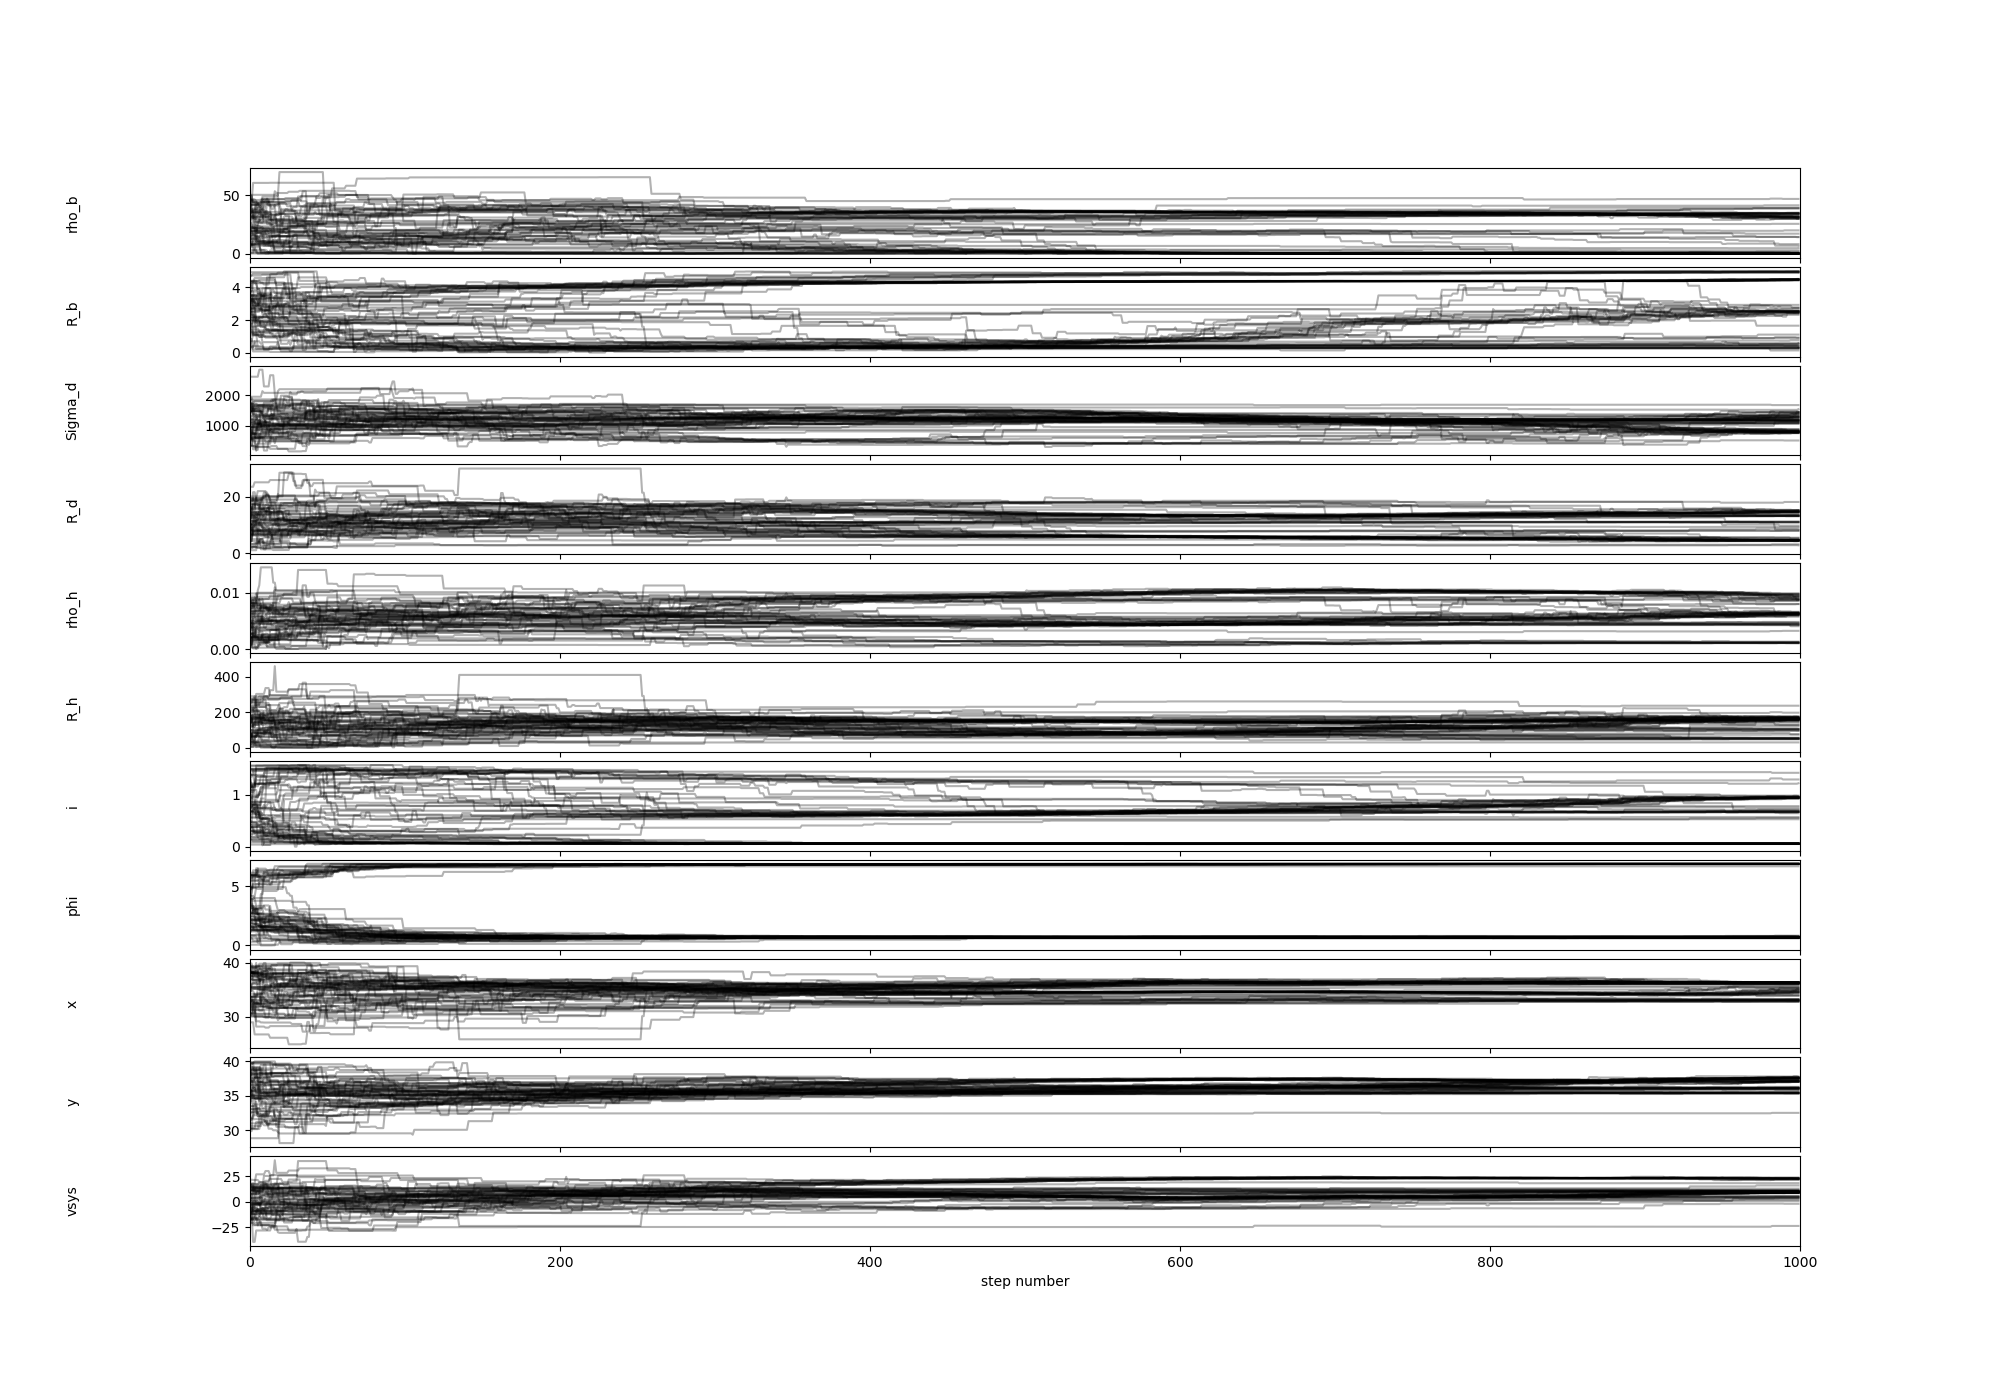
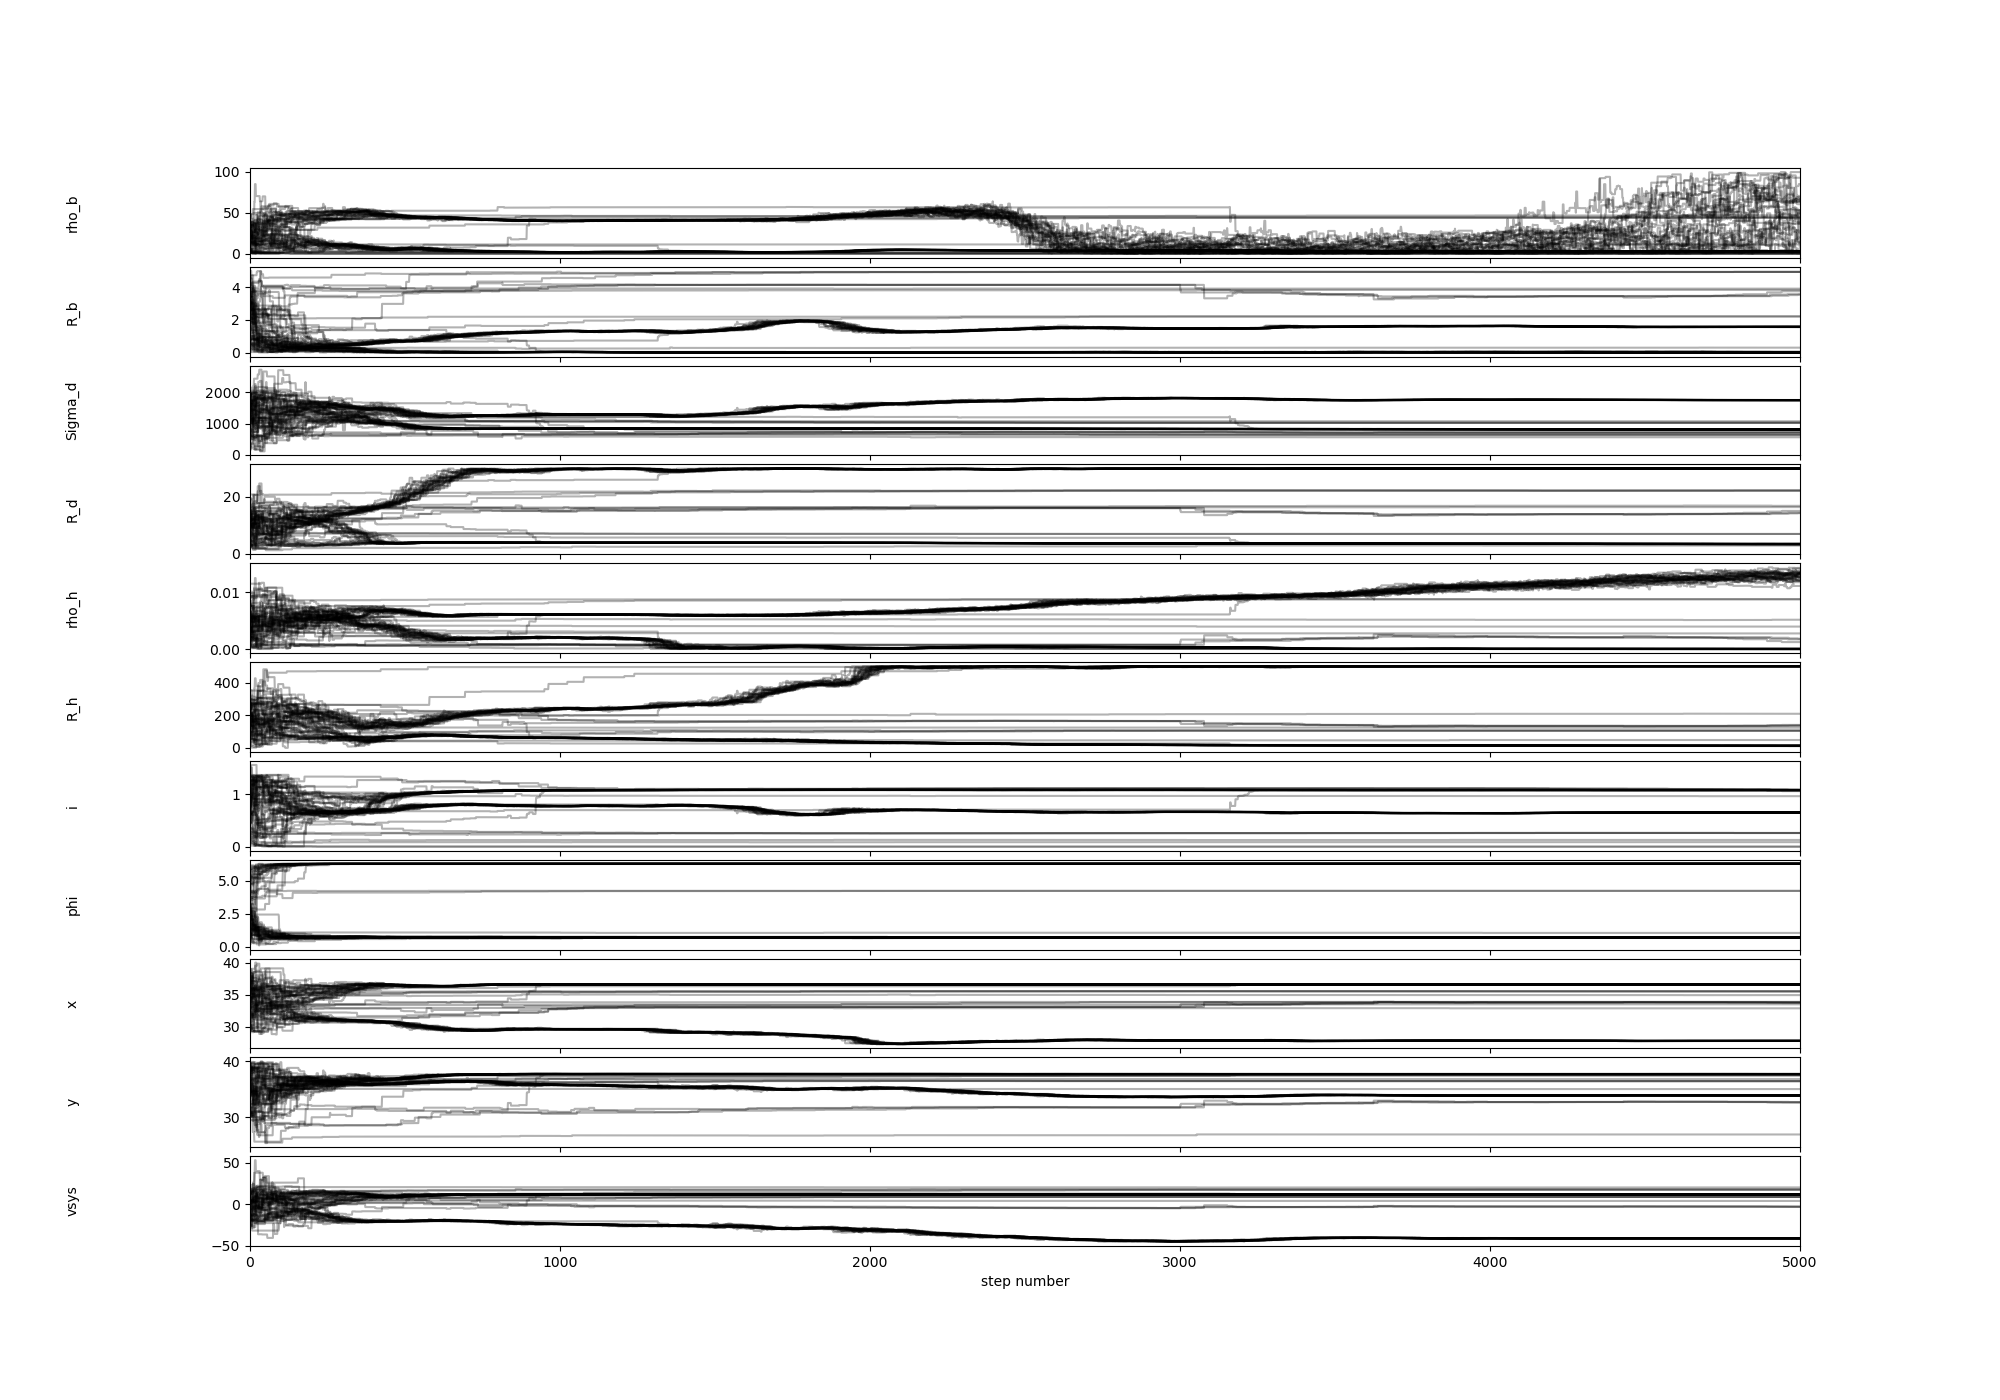
updated loglikelihood functions

Changed region(s): [[0.093, 0.1229, 0.899, 0.8907]]

diff --git a/2D_RC/main/RC_2D_Fit_Functions.py b/2D_RC/main/RC_2D_Fit_Functions.py
@@ -181,7 +181,7 @@ def getTidal(gal_ID):
         if galaxy['NAME'] == 'manga-'+gal_ID:
             return galaxy['TIDAL']
 
-def Galaxy_Fitting_iso(params, scale, shape, vmap, ivar):
+def Galaxy_Fitting_iso(params, scale, shape, vmap, ivar, mask):
     '''
 
     :param params:
@@ -201,7 +201,7 @@ def Galaxy_Fitting_iso(params, scale, shape, vmap, ivar):
                   [0.1, 30],  # Disk radius [kpc]
                   [0.000001, 0.1],  # Halo density [Msun/pc^2]
                   [0.1, 1000],  # Halo radius [kpc]
-                  [0.1, 0.5*np.pi],  # Inclination angle
+                  [0.1, 0.436*np.pi],  # Inclination angle
                   [0, 2.2 * np.pi],  # Phase angle
                   [x_guess-10, x_guess+10],  # center_x
                   [y_guess-10, y_guess+10], # center_y
@@ -211,9 +211,9 @@ def Galaxy_Fitting_iso(params, scale, shape, vmap, ivar):
 
     ig_iso = [20, 1,1000, 4, 0.006, 25, incl, ph, x_guess, y_guess, vsys]
 
-    bestfit_iso = minimize(nloglikelihood_iso,
+    bestfit_iso = minimize(nloglikelihood_iso_flat,
                            ig_iso,
-                           args=(scale, shape, vmap, ivar),
+                           args=(scale, shape, vmap.compressed(), ivar.compressed(),mask),
                            method='Powell',
                            bounds=bounds_iso)
     print('---------------------------------------------------')
@@ -261,7 +261,7 @@ def Galaxy_Fitting_iso_nb(params, scale, shape, vmap, ivar):
     return bestfit_iso.x
 '''
 
-def Galaxy_Fitting_NFW(params, scale, shape, vmap, ivar):
+def Galaxy_Fitting_NFW(params, scale, shape, vmap, ivar, mask):
     '''
 
     :param params:
@@ -281,7 +281,7 @@ def Galaxy_Fitting_NFW(params, scale, shape, vmap, ivar):
                   [0.1, 30],  # Disk radius [kpc]
                   [0.000001, 0.1],  # Halo density [Msun/pc^2]
                   [0.1, 1000],  # Halo radius [kpc]
-                  [0.1, 0.5*np.pi],  # Inclination angle
+                  [0.1, 0.436*np.pi],  # Inclination angle
                   [0, 2.2 * np.pi],  # Phase angle
                   [x_guess-10, x_guess+10],  # center_x
                   [y_guess-10, y_guess+10], # center_y
@@ -291,9 +291,9 @@ def Galaxy_Fitting_NFW(params, scale, shape, vmap, ivar):
 
     ig_NFW = [20, 1, 1000, 4, 0.006, 25, incl, ph, x_guess, y_guess, vsys]
 
-    bestfit_NFW = minimize(nloglikelihood_NFW,
+    bestfit_NFW = minimize(nloglikelihood_NFW_flat,
                            ig_NFW, 
-                           args=(scale, shape, vmap, ivar),
+                           args=(scale, shape, vmap.compressed(), ivar.compressed(), mask),
                            method='Powell', 
                            bounds=bounds_NFW)
     print('---------------------------------------------------')
@@ -341,7 +341,7 @@ def Galaxy_Fitting_NFW_nb(params, scale, shape, vmap, ivar):
     return bestfit_NFW.x
 '''
 
-def Galaxy_Fitting_bur(params, scale, shape, vmap, ivar):
+def Galaxy_Fitting_bur(params, scale, shape, vmap, ivar, mask):
     '''
 
     :param params:
@@ -361,7 +361,7 @@ def Galaxy_Fitting_bur(params, scale, shape, vmap, ivar):
                   [0.1, 30],  # Disk radius [kpc]
                   [0.000001, 0.1],  # Halo density [Msun/pc^2]
                   [0.1, 1000],  # Halo radius [kpc]
-                  [0.1, 0.5*np.pi],  # Inclination angle
+                  [0.1, 0.436*np.pi],  # Inclination angle
                   [0, 2.2 * np.pi],  # Phase angle
                   [x_guess-10, x_guess+10],  # center_x
                   [y_guess-10, y_guess+10], # center_y
@@ -373,9 +373,9 @@ def Galaxy_Fitting_bur(params, scale, shape, vmap, ivar):
 
     ig_bur = [20, 1, 1000, 4, 0.006, 25, incl, ph, x_guess, y_guess, vsys]
 
-    bestfit_bur = minimize(nloglikelihood_bur,
+    bestfit_bur = minimize(nloglikelihood_bur_flat,
                            ig_bur, 
-                           args=(scale, shape, vmap, ivar),
+                           args=(scale, shape, vmap.compressed(), ivar.compressed(), mask),
                            method='Powell', 
                            bounds=bounds_bur)
     print('---------------------------------------------------')

diff --git a/2D_RC/main/vel_map_RC_Decomp_pipeline_exp_bulge.py b/2D_RC/main/vel_map_RC_Decomp_pipeline_exp_bulge.py
@@ -42,6 +42,7 @@ from os import path
 c = 3E5 # km * s ^1
 h = 1 # reduced hubble constant
 H_0 =  100 * h # km * s^-1 * Mpc^-1
+q0 = 0.2 # minimum inclination value
 ################################################################################
 
 ################################################################################
@@ -115,7 +116,12 @@ for i in range(len(galaxy_ID)):
     distance = (velocity / H_0) * 1E3 #kpc
     scale = 0.5 * (distance) / 206265
 
-    incl = np.arccos(rat[j])
+    #incl = np.arccos(rat[j])
+    cosi2 = (rat[j]**2 - q0**2)/(1-q0**2)
+    if cosi2 < 0:
+        cosi2 = 0
+
+    incl = np.arccos(np.sqrt(cosi2))
 
     ph = phi[j] * np.pi / 180
 
@@ -141,6 +147,7 @@ for i in range(len(galaxy_ID)):
             Ha_vel_mask = Ha_vel_mask + (SN_map < 5)
 
             vmasked = ma.array(Ha_vel, mask = Ha_vel_mask)
+            ivar_masked = ma.array(Ha_vel_ivar, mask = Ha_vel_mask)
 
             # NFW
 
@@ -209,19 +216,22 @@ for i in range(len(galaxy_ID)):
                                                     scale,
                                                     gshape,
                                                     vmasked,
-                                                    Ha_vel_ivar)
+                                                    ivar_masked,
+                                                    Ha_vel_mask)
 
                 NFW_fit = Galaxy_Fitting_NFW(parameters,
                                              scale,
                                              gshape,
                                              vmasked,
-                                             Ha_vel_ivar)
+                                             ivar_masked,
+                                             Ha_vel_mask)
 
                 Burket_fit = Galaxy_Fitting_bur(parameters,
                                                 scale,
                                                 gshape,
                                                 vmasked,
-                                                Ha_vel_ivar)
+                                                ivar_masked,
+                                                Ha_vel_mask)
 
                 print('Fit galaxy', time.time() - start_time)
                 # -------------------------------------------------------------------------------

diff --git a/2D_RC/main/Velocity_Map_Functions.py b/2D_RC/main/Velocity_Map_Functions.py
@@ -262,7 +262,7 @@ def loglikelihood_iso_flat(params, scale, shape, vdata_flat, ivar_flat, mask):
     model = rot_incl_iso(shape, scale, params)
     model_masked = ma.array(model, mask=mask)
     model_flat = model_masked.compressed()
-    logL = -0.5 * ma.sum((vdata_flat - model_flat) ** 2 * ivar_flat - np.log(ivar_flat))
+    logL = -0.5 * ma.sum((vdata_flat - model_flat) ** 2 * ivar_flat - ma.log(ivar_flat))
     #if params[3] >= params[5]:
         #logL += 1e7
     #elif params[1] >= params[5]:
@@ -317,12 +317,14 @@ def nloglikelihood_NFW_nb(params, scale, shape, vdata, ivar):
 # NFW model flat
 
 def loglikelihood_NFW_flat(params, scale, shape, vdata_flat, ivar_flat, mask):
-
     # Construct the model
+    #print(len(vdata_flat))
+    #print(len(ivar_flat))
     model = rot_incl_NFW(shape, scale, params)
     model_masked = ma.array(model, mask=mask)
     model_flat = model_masked.compressed()
-    logL = -0.5 * ma.sum((vdata_flat - model_flat) ** 2 * ivar_flat - np.log(ivar_flat))
+    #print(len(model_flat))
+    logL = -0.5 * ma.sum((vdata_flat - model_flat) ** 2 * ivar_flat - ma.log(ivar_flat))
     #if params[3] >= params[5]:
         #logL += 1e7
     #elif params[1] >= params[5]:
@@ -379,10 +381,13 @@ def nloglikelihood_bur_nb(params, scale, shape, vdata, ivar):
 def loglikelihood_bur_flat(params, scale, shape, vdata_flat, ivar_flat, mask):
 
     # Construct the model
+    #print(len(vdata_flat))
+    #print(len(ivar_flat))
     model = rot_incl_bur(shape, scale, params)
     model_masked = ma.array(model, mask=mask)
     model_flat = model_masked.compressed()
-    logL = -0.5 * ma.sum((vdata_flat - model_flat) ** 2 * ivar_flat - np.log(ivar_flat))
+    #print(len(model_flat))
+    logL = -0.5 * ma.sum((vdata_flat - model_flat) ** 2 * ivar_flat - ma.log(ivar_flat))
     #if params[3] >= params[5]:
         #logL += 1e7
     #elif params[1] >= params[5]:

diff --git a/2D_RC/main/vel_map_MCMC_iso.py b/2D_RC/main/vel_map_MCMC_iso.py
@@ -119,7 +119,8 @@ flat_bad_samples_iso.shape
 figure = corner.corner(flat_bad_samples_iso, labels=labels,
                     range=[(0,90), (0,1), (0,2400),(1,12),(2e-6,0.01),(5,200),(0,np.pi/2),(0,1.5),(30,40),(30,40),(-100,100)], bins=30, #smooth=1,
                     #truths=[, , ], truth_color='#ff4444',
-                    levels=(1-np.exp(-0.5), 1-np.exp(-2)), quantiles=(0.16, 0.84),
+                    levels=(1-np.exp(-0.5), 1-np.exp(-2)), 
+                    quantiles=(0.16, 0.84),
                     hist_kwargs={'histtype':'stepfilled', 'alpha':0.3, 'density':True},
                     color='blue', plot_datapoints=False,
                     fill_contours=True)
